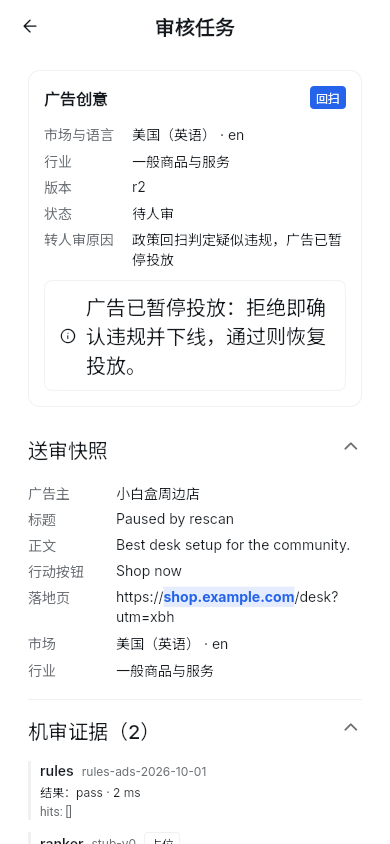
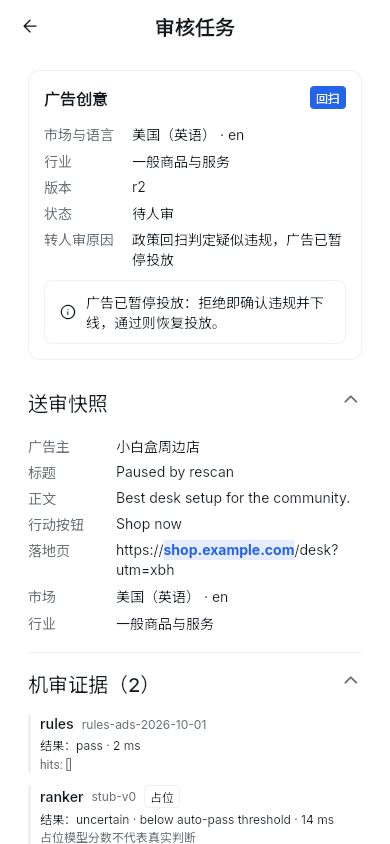
docs(readme): reshoot client screenshots after the badge and alert fix

diff --git a/docs/assets/screenshots/README.md b/docs/assets/screenshots/README.md
@@ -1,7 +1,8 @@
 # README 界面截图
 
 这些图片用于前端与根仓 README 的界面展示，2026-10-04 在前端提交
-`4d8138c6eacd4fd88fda49c8748707541a6d9124` 上重新拍摄，替换 2026-09-06 的旧图。旧图早于
+`4cf901427f0b8afe076b1e14959bb222715d4f95` 上拍摄，已包含当天徽标截断与提示标题字号的修复
+（[修复证据](../../knowledge/evidence/EVD-badge-alert-fix-2026-10-04.md)），替换 2026-09-06 的旧图。旧图早于
 2026-09-26 的界面重构，也没有广告与审核界面；改造前后对比见
 [界面重构证据](../../knowledge/evidence/EVD-ui-redesign-2026-09-26.md)。图片未经裁剪、重绘或内容替换。
 
@@ -21,8 +22,8 @@
 - Mock：`make build-web` 构建 `lib/main_mock.dart` release 包，以根仓 `deploy/dev/serve_release.py`
   本地伺服；Playwright Chromium，`device_scale_factor=1`，`locale=zh-CN`，暗色图使用
   `color_scheme=dark`。Mock 初始用户同时是广告主与审核员，数据均为仓库内演示数据。
-- 真实联调：根仓 `9908d0d`（后端 `58f7d09`、前端 `4d8138c`）执行 `just up` 后的 `:3002` 同源入口，
-  `/api/v1/health/ready` 为 ready；同样以 Playwright 拍摄。帖子 1001 来自后端 `eval/corpus.json`
+- 真实联调：根仓 `just up` 启动的本地栈（后端 `58f7d09`），前端以上述提交经 `frontend_up` 重建 release
+  包，从 `:3002` 同源入口访问，`/api/v1/health/ready` 为 ready；同样以 Playwright 拍摄。帖子 1001 来自后端 `eval/corpus.json`
   开发语料，不是用户数据。
 
 真实联调和 Mock 是两类来源，不从 Mock 截图推断真实接口、模型或审核结果；这些截图只用于 README
